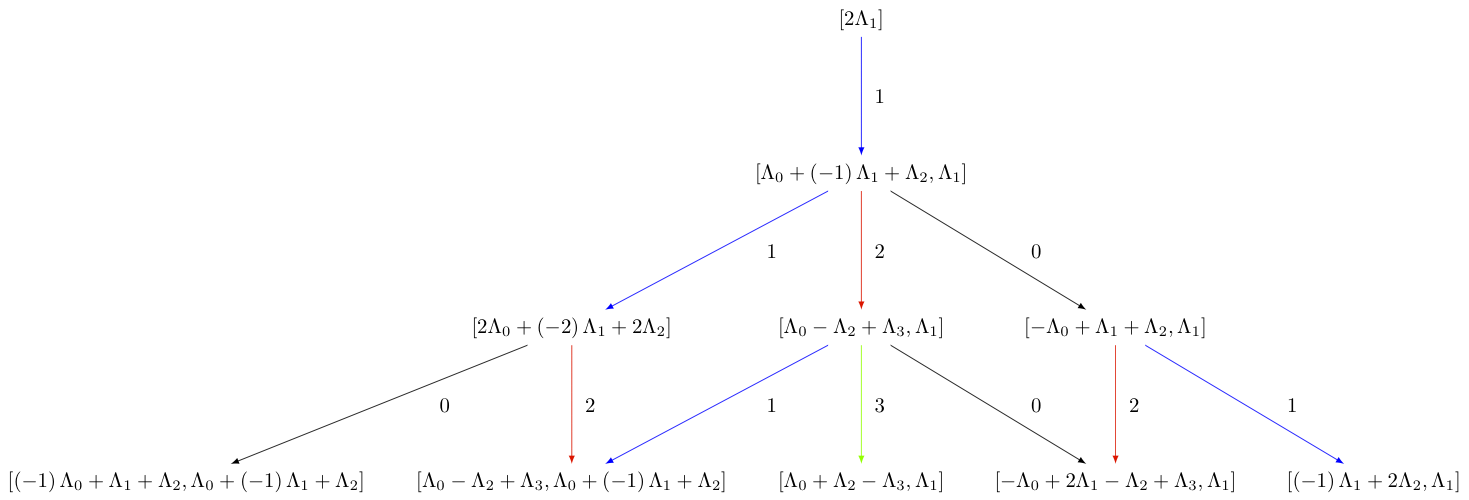
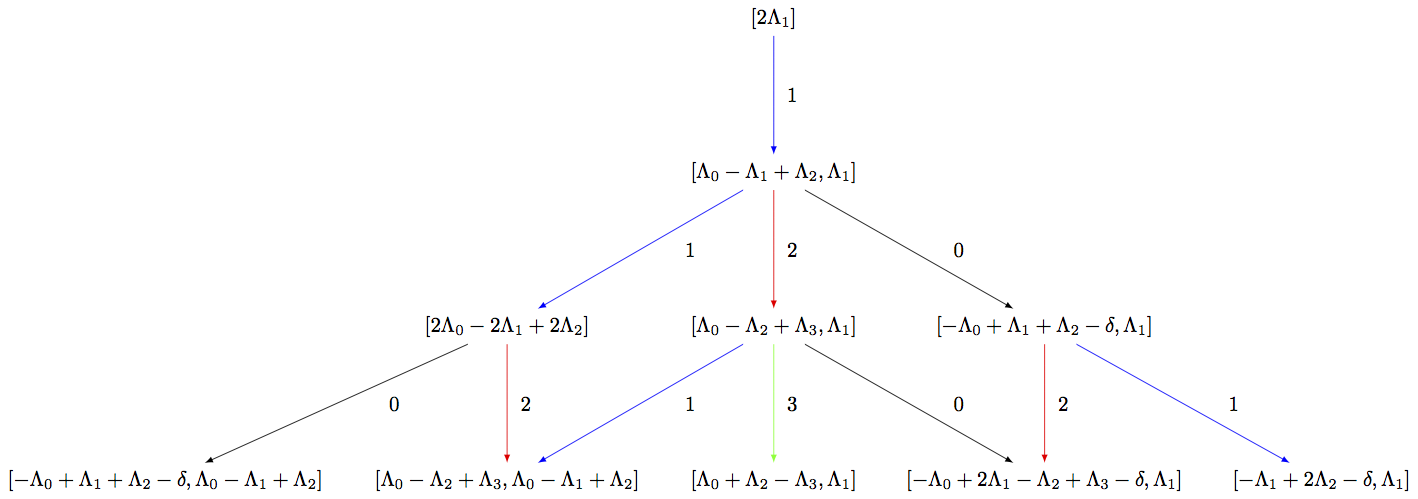
18453: updated thematic tutorial on affine crystals

diff --git a/src/doc/en/thematic_tutorials/lie/affine_hw_crystals.rst b/src/doc/en/thematic_tutorials/lie/affine_hw_crystals.rst
@@ -11,8 +11,8 @@ Littelmann path model
 The Littelmann path model for highest weight crystals is implemented
 in Sage. It models finite highest crystals as well as affine highest weight
 crystals which are infinite dimensional. The elements of the crystal are
-piecewise linear maps in the weight space. For more information on the
-Littelmann path model, see [L1995]_.
+piecewise linear maps in the extended weight space over `\QQ`. For more information
+on the Littelmann path model, see [L1995]_.
 
 Since the affine highest weight crystals are infinite, it is not possible
 to list all elements or draw the entire crystal graph. However, if the user
@@ -22,15 +22,17 @@ To view the corresponding upper part of the crystal, one can build the
 associated digraph::
 
     sage: R = RootSystem(['C',3,1])
-    sage: La = R.weight_space().basis()
+    sage: La = R.weight_space(extended = True).basis()
     sage: LS = crystals.LSPaths(2*La[1]); LS
     The crystal of LS paths of type ['C', 3, 1] and weight 2*Lambda[1]
+    sage: LS.weight_lattice_realization()
+    Extended weight space over the Rational Field of the Root system of type ['C', 3, 1]
     sage: C = LS.subcrystal(max_depth=3)
     sage: sorted(C, key=str)
-    [(-Lambda[0] + 2*Lambda[1] - Lambda[2] + Lambda[3], Lambda[1]),
-     (-Lambda[0] + Lambda[1] + Lambda[2], Lambda[0] - Lambda[1] + Lambda[2]),
-     (-Lambda[0] + Lambda[1] + Lambda[2], Lambda[1]),
-     (-Lambda[1] + 2*Lambda[2], Lambda[1]),
+    [(-Lambda[0] + 2*Lambda[1] - Lambda[2] + Lambda[3] - delta, Lambda[1]),
+     (-Lambda[0] + Lambda[1] + Lambda[2] - delta, Lambda[0] - Lambda[1] + Lambda[2]),
+     (-Lambda[0] + Lambda[1] + Lambda[2] - delta, Lambda[1]),
+     (-Lambda[1] + 2*Lambda[2] - delta, Lambda[1]),
      (2*Lambda[0] - 2*Lambda[1] + 2*Lambda[2],),
      (2*Lambda[1],),
      (Lambda[0] + Lambda[2] - Lambda[3], Lambda[1]),
@@ -65,28 +67,30 @@ can use the direction option in subcrystal::
 Modified Nakajima monomials
 ---------------------------
 
-Modified Nakajima monomials have also been implemented in Sage and models
+Modified Nakajima monomials have also been implemented in Sage. They model
 highest weight crystals in all symmetrizable types. The elements are given
 in terms of commuting variables `Y_i(n)` where `i \in I` and
 `n \in \ZZ_{\geq 0}`. For more information on the modified Nakajima
 monomials, see [KKS2007]_.
 
 We give an example in affine type and verify that up to depth 3, it agrees
-with the Littelmann path model::
+with the Littelmann path model. Unlike in the LS path model, the Nakajima
+monomial crystals are indexed by elements in the weight lattice (rather than
+the weight space)::
 
-    sage: La = RootSystem(['C',3,1]).weight_space().fundamental_weights()
+    sage: La = RootSystem(['C',3,1]).weight_space(extended = True).fundamental_weights()
     sage: LS = crystals.LSPaths(2*La[1]+La[2])
     sage: SL = LS.subcrystal(max_depth=3)
     sage: GL = LS.digraph(subset=SL)
 
-    sage: La = RootSystem(['C',3,1]).weight_lattice().fundamental_weights()
+    sage: La = RootSystem(['C',3,1]).weight_lattice(extended = True).fundamental_weights()
     sage: M = crystals.NakajimaMonomials(['C',3,1], 2*La[1]+La[2])
     sage: SM = M.subcrystal(max_depth=3)
     sage: GM = M.digraph(subset=SM)
     sage: GL.is_isomorphic(GM, edge_labels=True)
     True
 
-Now we do an example of a simply-laced (so symmetrizable) hyperbolic
+Now we do an example of a simply-laced (and hence symmetrizable) hyperbolic
 type `H_1^{(4)}`, which comes from the complete graph on 4 vertices::
 
     sage: CM = CartanMatrix([[2, -1, -1,-1],[-1,2,-1,-1],[-1,-1,2,-1],[-1,-1,-1,2]]); CM
